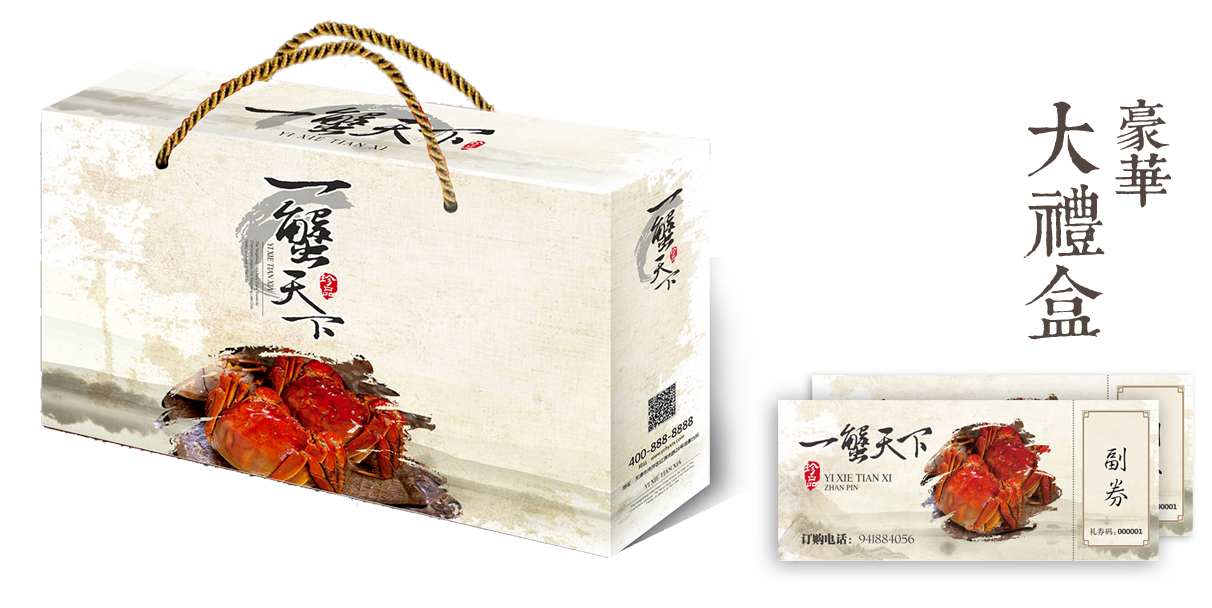
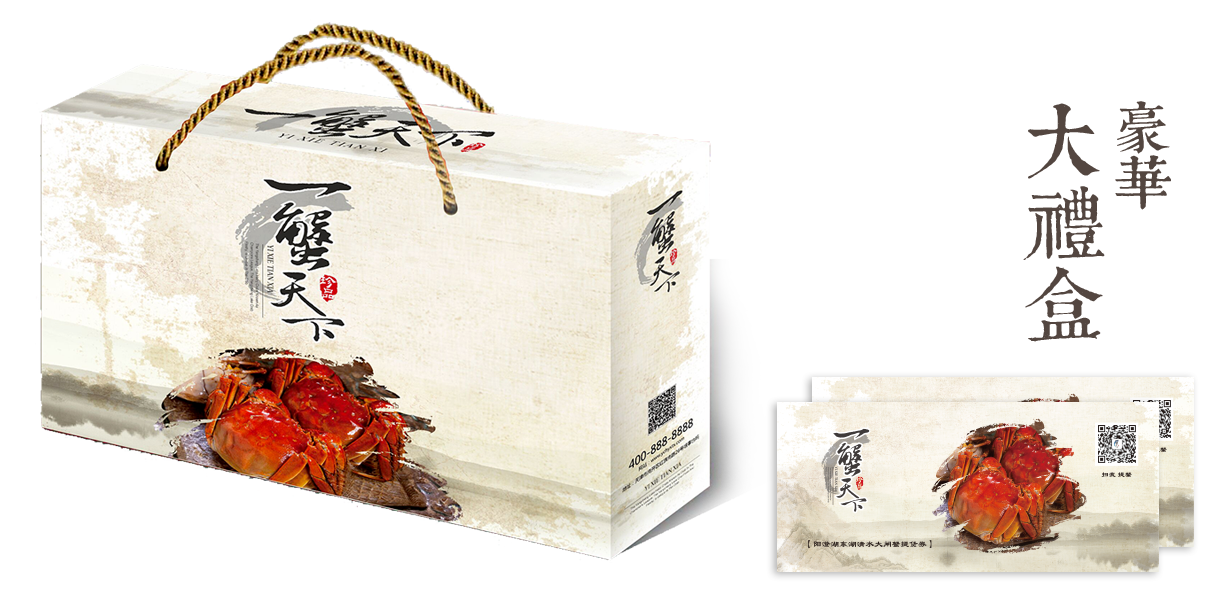
change dzx coupon area

diff --git a/dzx/index.html b/dzx/index.html
@@ -194,19 +194,17 @@
 </div>
 <div class="sep sep-3"></div>
 <!-- contact -->
-<div class="contact" id="coupon">
-	<div class="col-xs-4 col-xs-offset-4 text-center">
-		<p>
-			<input type="text" class="form-control" placeholder="请输入礼券号">
+<div class="contact clearfix" id="coupon">
+	<div class="qr-code col-xs-6 text-center">
+		<p style="margin-top: 20px; margin-bottom: 80px; font-size: 1.6em">
+			扫码关注我们的公众号查看兑换流程。
 		</p>
-		<br>
 		<p>
-			<input type="password" class="form-control" placeholder="请输入礼券码">
+			<img src="images/qrcode.jpg">
 		</p>
-		<br>
-		<p>
-			<button class="btn btn-primary btn-block">兑换</button>
-		</p>
+	</div>
+	<div class="coupon-info col-xs-5">
+		<img src="images/coupon.png" class="img-responsive">
 	</div>
 </div>
 <!-- //contact -->

diff --git a/dzx/css/style.css b/dzx/css/style.css
@@ -445,7 +445,7 @@ body a:hover{
 /*-- //about --*/
 /*-- contact --*/
 .contact{
-	padding:10em 0 25em;
+	padding:5em 0 14em;
 	background:#eee;
 	background-image: url(../images/crab.png);
 	background-position: center bottom;
